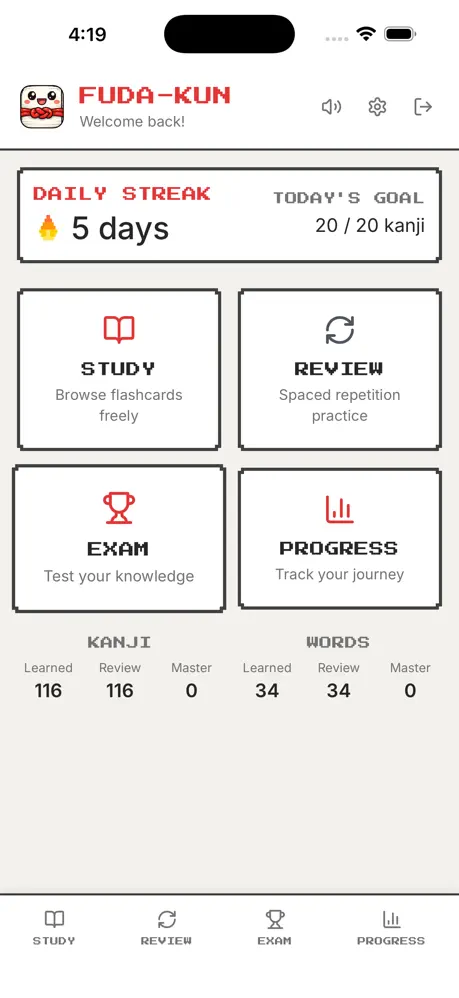
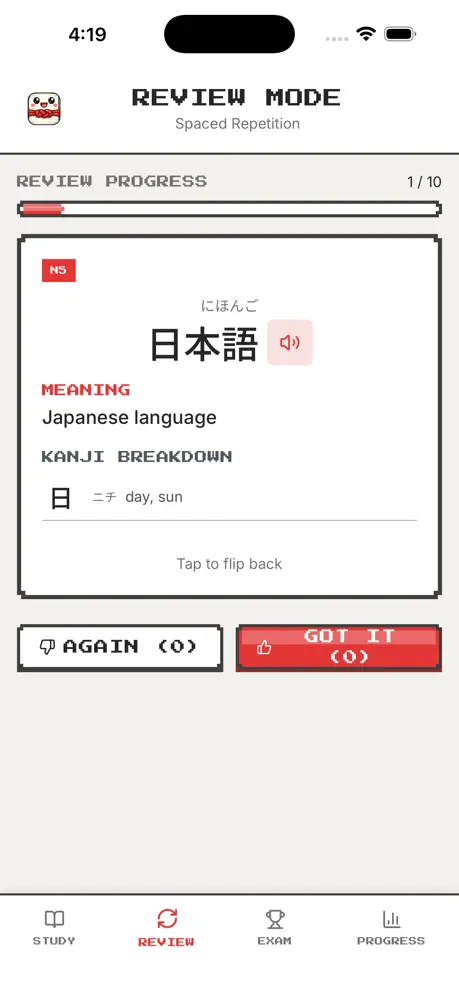
Replace Fuda-kun promo screenshot

Changed region(s): [[0.0, 0.0621, 1.0, 0.7144], [0.305, 0.9008, 0.427, 0.9629]]

diff --git a/docs/index.html b/docs/index.html
@@ -1172,7 +1172,7 @@
           <div class="app-art">
             <img class="app-icon" src="assets/images/fuda-kun-app-icon.png" alt="Fuda-kun app icon" loading="lazy" />
             <div class="app-screen">
-              <img src="assets/images/fuda-kun-home-screen.webp" alt="Fuda-kun home screen showing study, review, exam, and progress modes" loading="lazy" />
+              <img src="assets/images/fuda-kun-home-screen.webp" alt="Fuda-kun review mode showing a Japanese vocabulary card and spaced repetition controls" loading="lazy" />
             </div>
             <div class="app-stat" aria-hidden="true">Smart Review</div>
           </div>